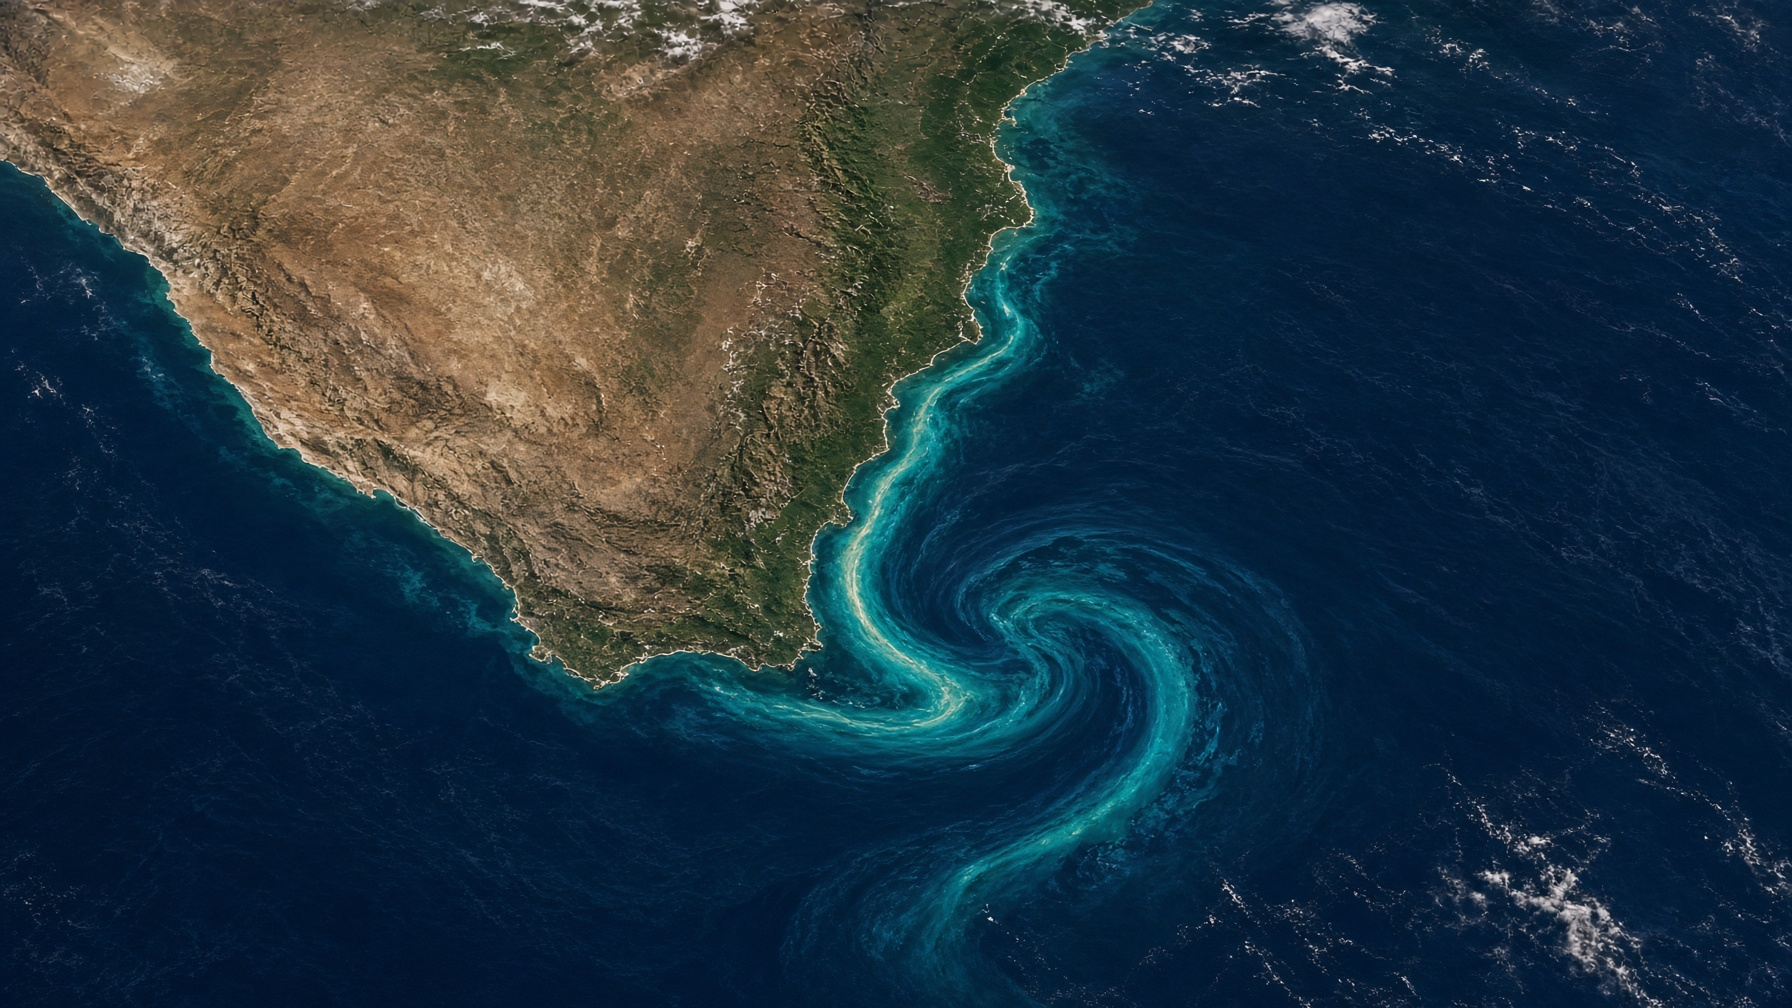
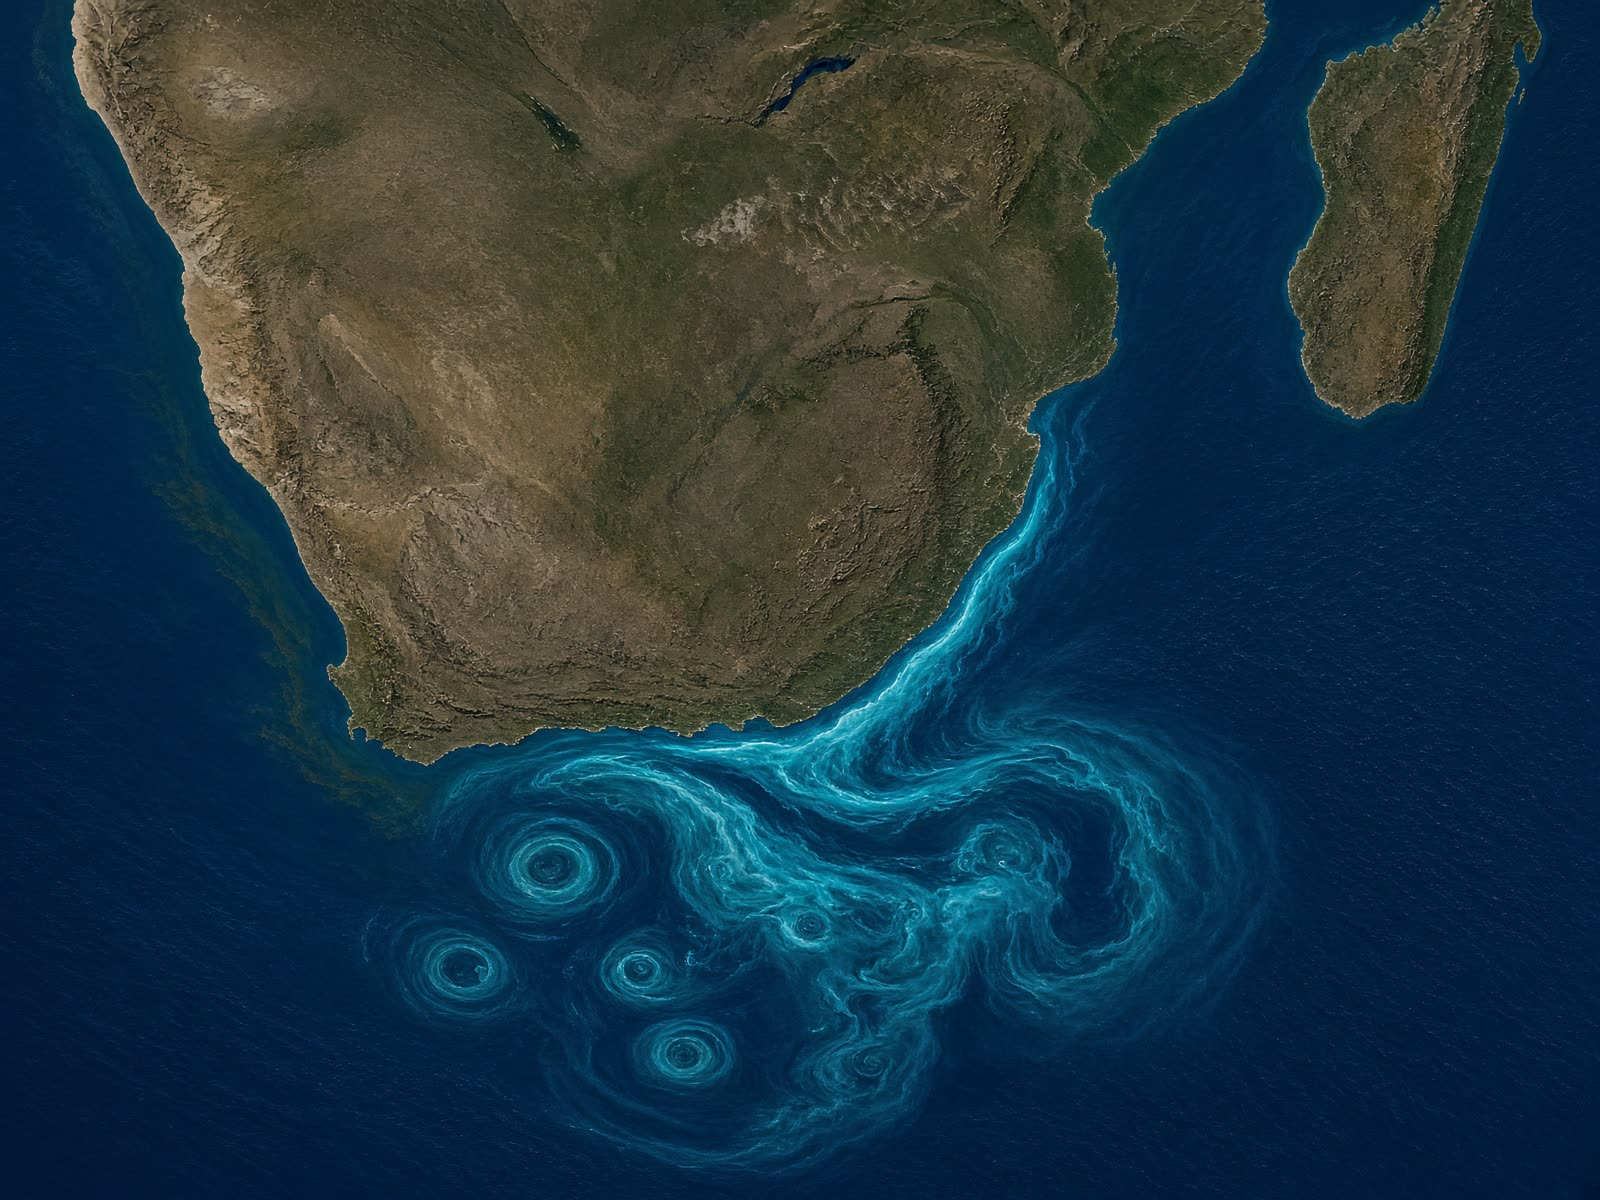
Western boundary current copy and southern Africa retroflection map

diff --git a/src/routes/index.tsx b/src/routes/index.tsx
@@ -30,8 +30,12 @@ const INTRO = [
 
 const CURRENT_FACTS = [
   {
+    k: "Class",
+    v: "Western boundary current — on the western boundary of the Indian Ocean, the same class as the Gulf Stream and Kuroshio.",
+  },
+  {
     k: "Path",
-    v: "Eastern boundary current flowing south along South Africa’s east coast.",
+    v: "Flows south along South Africa’s east coast, then retroflects east into the Indian Ocean.",
   },
   { k: "Width", v: "40–100 km across the core of the flow." },
   { k: "Depth", v: "Energetic from the surface to 2,000 m." },
@@ -192,13 +196,34 @@ function Current() {
             The Agulhas Current
           </p>
           <h2 className="font-display mt-3 text-3xl leading-tight tracking-tight sm:text-4xl">
-            An eastern boundary current, running year-round
+            A western boundary current, running year-round
           </h2>
           <p className="mt-5 text-[1.05rem] leading-relaxed text-muted">
             Second only to the Gulf Stream, the Agulhas Current carries 70–80
-            million cubic metres of water every second. That volume, at average
-            speeds of 1.4 m/s and peaks above 2.5 m/s, is the resource.
+            million cubic metres of water every second. We call it — and the
+            Gulf Stream and Kuroshio — a western boundary current because it
+            rides the western boundary of the ocean. Western boundary currents
+            are narrow, deep and fast. Eastern boundary currents are slow and
+            broad.
           </p>
+          <div className="mt-6 grid gap-3 sm:grid-cols-2">
+            <div className="rounded-lg border border-border bg-bg p-4">
+              <p className="text-xs font-medium uppercase tracking-[0.14em] text-accent">
+                Western
+              </p>
+              <p className="mt-1 text-sm leading-relaxed text-fg">
+                Narrow, deep and fast — Agulhas, Gulf Stream, Kuroshio.
+              </p>
+            </div>
+            <div className="rounded-lg border border-border bg-bg p-4">
+              <p className="text-xs font-medium uppercase tracking-[0.14em] text-subtle">
+                Eastern
+              </p>
+              <p className="mt-1 text-sm leading-relaxed text-muted">
+                Slow and broad.
+              </p>
+            </div>
+          </div>
           <ul className="mt-8 space-y-4">
             {CURRENT_FACTS.map((f) => (
               <li key={f.k} className="flex gap-4 border-t border-border pt-4">
@@ -213,12 +238,12 @@ function Current() {
         <figure className="overflow-hidden rounded-xl border border-border">
           <img
             src="/current-map.jpg"
-            alt="Satellite view of the Agulhas Current along South Africa’s east coast, showing southward flow and retroflection"
+            alt="Satellite view of southern Africa: the Agulhas Current hugging the east coast, then retroflecting east south of Cape Agulhas"
             className="aspect-[4/3] w-full object-cover"
           />
           <figcaption className="bg-surface-2 px-4 py-3 text-xs text-muted">
-            The current core hugs the shelf before retroflecting into the Indian
-            Ocean.
+            South of Cape Agulhas the current retroflects, turning east back
+            into the Indian Ocean.
           </figcaption>
         </figure>
       </div>
@@ -255,7 +280,7 @@ function Energy() {
             <FactCard
               icon={<Zap className="size-4" />}
               title="1 MW turbine"
-              body="Enough electricity for about 1,000 homes."
+              body="Up to 85 suburban homes — about 12 kW per home."
             />
             <FactCard
               icon={<Gauge className="size-4" />}
